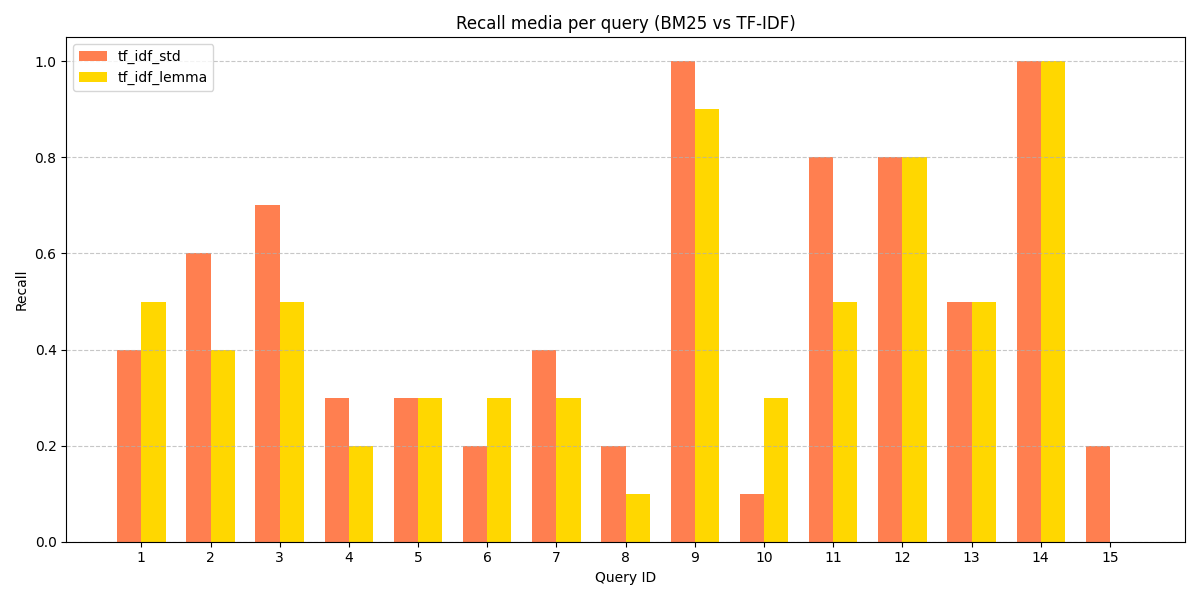
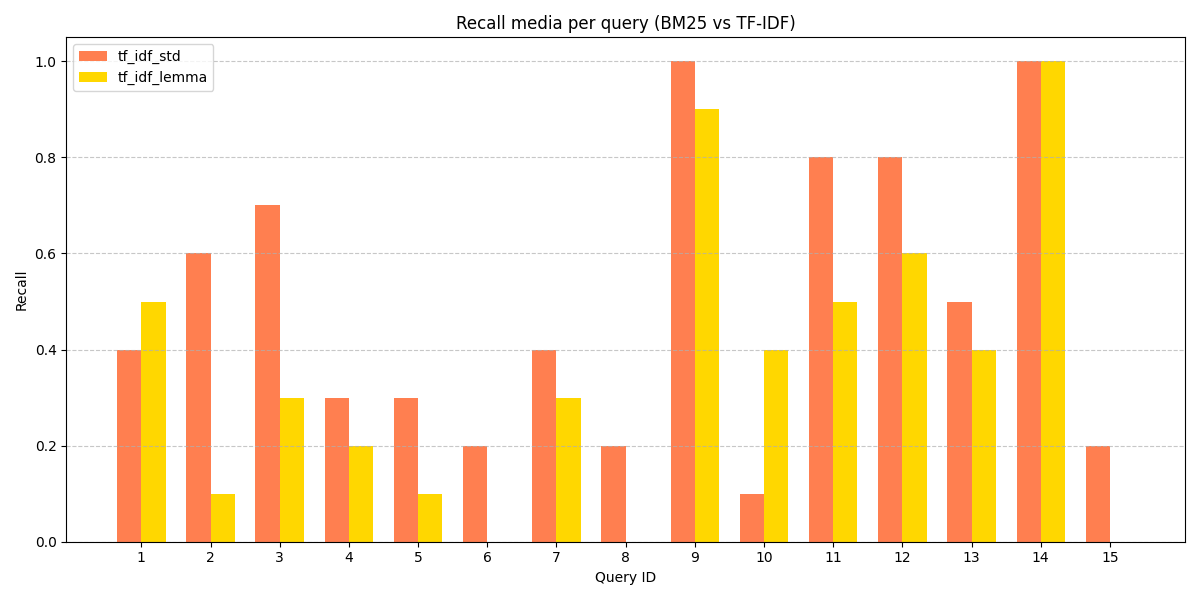
.

diff --git a/Whoosh/utils.py b/Whoosh/utils.py
@@ -14,11 +14,19 @@ es = Elasticsearch("http://172.26.112.1:9200")  # Connessione al servizio
 
 # group=OrGroup fa si che internamente il parser tratta ogni parola in OR
 # And(clauses) ==> ogni singola query viene trattata come and
-def build_and_query(ix, queries):
+from make_II import lemmatize_text
+def build_and_query(ix, queries, mode="STD"):
     clauses = []
+
     for field, text in queries.items():
+        # Preprocessing coerente con l'indice
+        if  mode == "LEMM":
+            text = lemmatize_text(text)  
+        # else: Se stemmed lo effettuerà da solo (lo capisce dallo schema)
+
         parser = QueryParser(field, schema=ix.schema, group=OrGroup)
         clauses.append(parser.parse(text))
+
     return And(clauses)
 
 

diff --git a/Whoosh/script_interattivo.py b/Whoosh/script_interattivo.py
@@ -35,8 +35,8 @@ indices = {name: open_dir(path) for name, path in index_paths.items()}
 
 # --- Costruzione delle query per ogni indice ---
 query_std = build_and_query(indices["STD"], queries)
-query_lemm = build_and_query(indices["LEMM"], queries)
-query_stem = build_and_query(indices["STEM"], queries)
+query_lemm = build_and_query(indices["LEMM"], queries,mode="LEMM")
+query_stem = build_and_query(indices["STEM"], queries,mode="STEM")
 
 # --- Ricerche da effettuare ---
 retrieved_results = {}

diff --git a/Whoosh/std_vs_lemma.py b/Whoosh/std_vs_lemma.py
@@ -63,7 +63,7 @@ for entry in query_data:
     r_precision_dict["tf_idf_std"].append(r_prec)
 
     # --- LEMMATIZED ---
-    query_lemm = build_and_query(ix_lemm, queries)
+    query_lemm = build_and_query(ix_lemm, queries,mode="LEMM")
     with ix_lemm.searcher(weighting=whoosh.scoring.TF_IDF()) as searcher_lemm:
         results_lemm = searcher_lemm.search(query_lemm, limit=10)
         retrieved_lemm = [hit['title'] for hit in results_lemm]

diff --git a/Whoosh/std_vs_stem.py b/Whoosh/std_vs_stem.py
@@ -63,7 +63,7 @@ for entry in query_data:
     r_precision_dict["tf_idf_std"].append(r_prec)
 
     # --- STEMMED ---
-    query_stem = build_and_query(ix_stem, queries)
+    query_stem = build_and_query(ix_stem, queries,mode="STEM")
     with ix_stem.searcher(weighting=whoosh.scoring.TF_IDF()) as searcher_stem:
         results_stem = searcher_stem.search(query_stem, limit=10)
         retrieved_stem = [hit['title'] for hit in results_stem]
